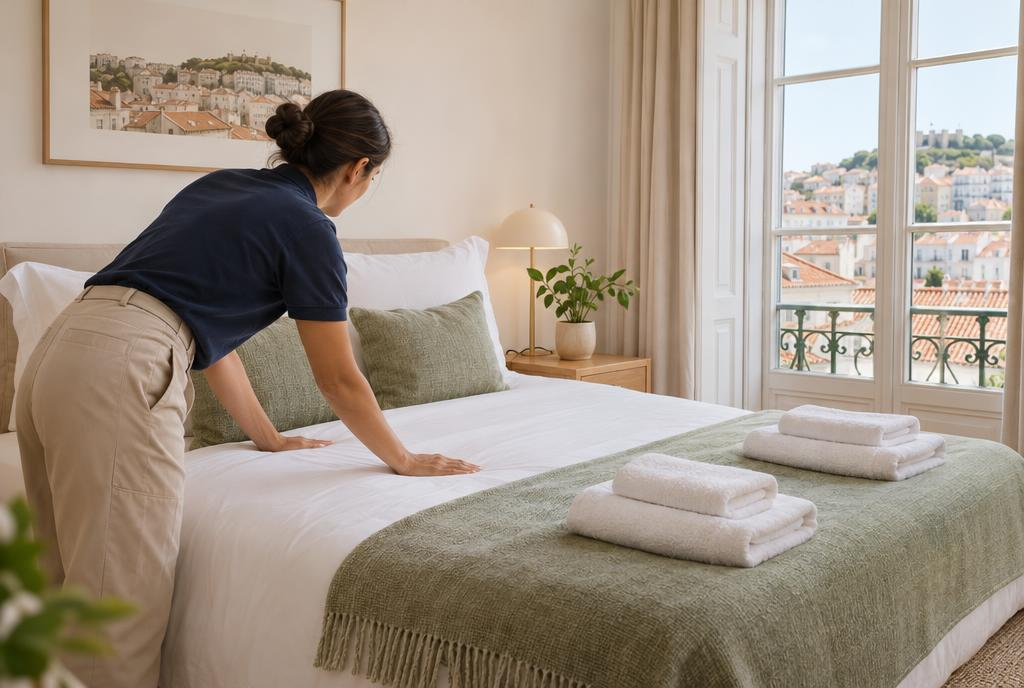
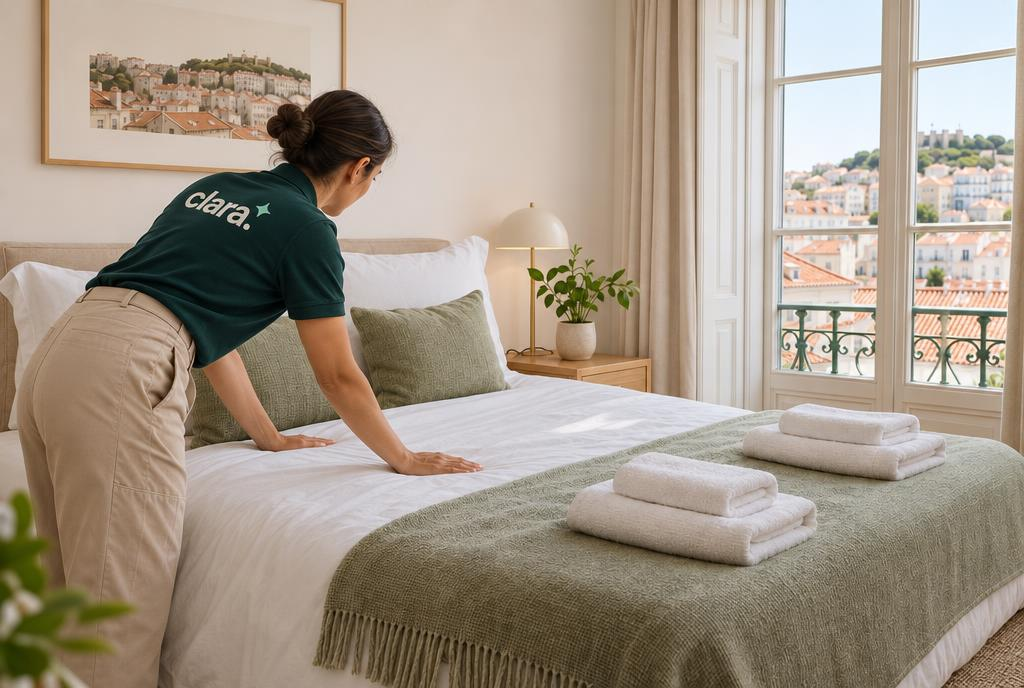
Use branded Clara polo in all photos, new hero image
- New hero photo: cleaner in the green Clara polo with the chest logo
- All six service photos now show women in the Clara polo (logo front
  and back), with a more realistic look; new office scene
- Hero grows taller on wide screens so the subject isn't cropped

diff --git a/src/app/globals.css b/src/app/globals.css
@@ -118,13 +118,13 @@ section { scroll-margin-top: 72px; }
 /* hero */
 .hero { position: relative; overflow: hidden; background: #eef3ee; }
 .hero-media { position: absolute; inset: 0; }
-.hero-media img { width: 100%; height: 100%; object-fit: cover; object-position: 72% 50%; }
+.hero-media img { width: 100%; height: 100%; object-fit: cover; object-position: 72% 40%; }
 .hero-fade {
   position: absolute; inset: 0;
   background: linear-gradient(90deg, var(--ivory) 0%, rgba(248, 247, 243, 0.97) 30%, rgba(248, 247, 243, 0.72) 44%, rgba(248, 247, 243, 0) 62%);
 }
 .hero-inner {
-  position: relative; min-height: 640px; display: flex; flex-direction: column;
+  position: relative; min-height: clamp(640px, 42vw, 800px); display: flex; flex-direction: column;
   justify-content: center; gap: 24px; padding: 88px 0 96px;
 }
 .hero h1 { font-size: clamp(46px, 5.6vw, 76px); line-height: 1.04; letter-spacing: -0.04em; max-width: 8.6em; }

diff --git a/src/app/[lang]/layout.tsx b/src/app/[lang]/layout.tsx
@@ -48,7 +48,7 @@ export async function generateMetadata(): Promise<Metadata> {
       title: t.meta.title,
       description: t.meta.description,
       locale: ogLocale[locale],
-      images: [{ url: "/images/clara-limpezas.jpg", width: 1920, height: 1088 }],
+      images: [{ url: "/images/clara-limpezas.jpg", width: 2688, height: 1520 }],
     },
   };
 }
